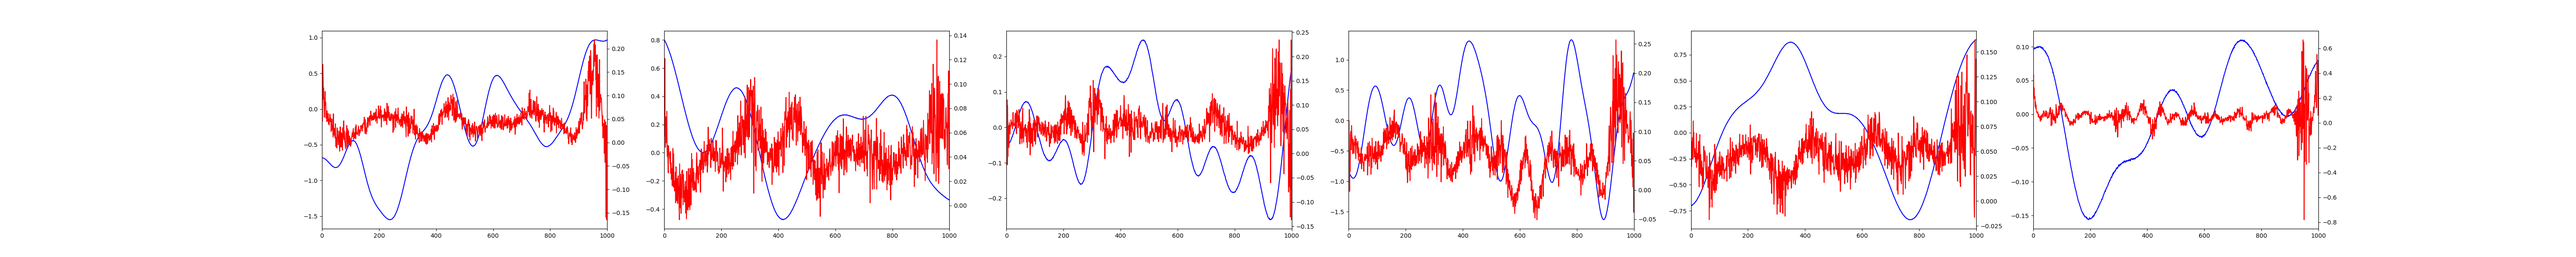
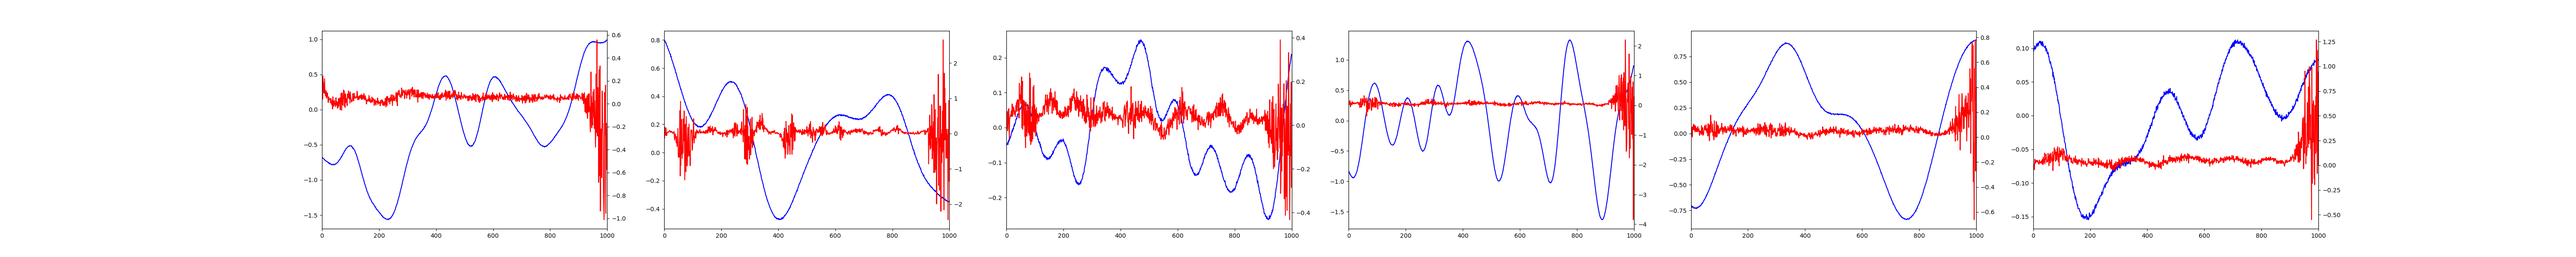
function to bound kernel params

diff --git a/main.py b/main.py
@@ -11,7 +11,6 @@ import sys
 
 from jax.config import config
 config.update("jax_enable_x64", True)
-#config.update("jax_debug_nans", True)
 
 import jax.random as jr
 import jax.numpy as jnp
@@ -37,7 +36,7 @@ def parse():
                         help="dimension of each observed data point")
     parser.add_argument('-T', type=int, default=1000,
                         help="number of latent input locations")
-    parser.add_argument('--num-pseudo', type=int, default=100,
+    parser.add_argument('--num-pseudo', type=int, default=50,
                         help="number of pseudo latent points to use")
     parser.add_argument('-D', type=int, default=1,
                         help="dimension of latent input locations")
@@ -56,11 +55,11 @@ def parse():
                         help="num. of samples from q(s|tau) in elbo")
     parser.add_argument('--num-tau-samples', type=int, default=10,
                         help="num. of samples from q(tau) in elbo")
-    #parser.add_argument('--phi-learning-rate', type=float, default=3e-1,
-    #                    help="learning rate for variational params")
-    parser.add_argument('--theta-learning-rate', type=float, default=3e-3,
+    parser.add_argument('--phi-learning-rate', type=float, default=3e-1,
+                        help="learning rate for variational params")
+    parser.add_argument('--theta-learning-rate', type=float, default=3e-4,
                         help="learning rate for model params")
-    parser.add_argument('--minib-size', type=int, default=16,
+    parser.add_argument('--minib-size', type=int, default=8,
                         help="minibatch size")
     parser.add_argument('--num-epochs', type=int, default=10000,
                         help="number of training epochs")
@@ -69,7 +68,7 @@ def parse():
                         help="seed for initializing data generation")
     parser.add_argument('--est-seed', type=int, default=50,
                         help="seed for initializing learning/inference")
-    parser.add_argument('--test-seed', type=int, default=50,
+    parser.add_argument('--test-seed', type=int, default=99,
                         help="seed for all kinds misc. testing")
     # plotting frequency
     parser.add_argument('--plot-freq', type=int, default=100,

diff --git a/train.py b/train.py
@@ -30,7 +30,7 @@ def train(x, z, s, t, tp_mean_fn, tp_kernel_fn, params, args, key):
     num_epochs = args.num_epochs
     nsamples = (args.num_s_samples, args.num_tau_samples)
     theta_lr = args.theta_learning_rate
-    #phi_lr = args.phi_learning_rate
+    phi_lr = args.phi_learning_rate
     gt_Q, gt_mixer_params, gt_kernel_params, gt_tau = params
 
     # initialize generative model params (theta)
@@ -78,9 +78,9 @@ def train(x, z, s, t, tp_mean_fn, tp_kernel_fn, params, args, key):
     num_full_minibs, remainder = divmod(n_data, minib_size)
     num_minibs = num_full_minibs + bool(remainder)
     theta_optimizer = optax.adam(theta_lr)
-    #phi_optimizer = optax.adam(phi_lr)
+    phi_optimizer = optax.adam(phi_lr)
     theta_opt_state = theta_optimizer.init(theta)
-    phi_opt_states = vmap(theta_optimizer.init)(phi)
+    phi_opt_states = vmap(phi_optimizer.init)(phi)
 
 
     def make_training_step(logpx, kernel_fn, t, nsamples, use_gt_settings,
@@ -95,7 +95,7 @@ def train(x, z, s, t, tp_mean_fn, tp_kernel_fn, params, args, key):
             theta_g, phi_n_g = g
 
             # perform gradient updates
-            theta_opt = optimizers
+            (theta_opt, phi_opt) = optimizers
             theta_updates, theta_opt_state = theta_opt.update(
                 theta_g, theta_opt_state, theta)
 
@@ -113,7 +113,7 @@ def train(x, z, s, t, tp_mean_fn, tp_kernel_fn, params, args, key):
 
             # perform gradient updates
             theta = optax.apply_updates(theta, theta_updates)
-            phi_n_updates, phi_n_opt_states = vmap(theta_opt.update)(
+            phi_n_updates, phi_n_opt_states = vmap(phi_opt.update)(
                 phi_n_g, phi_n_opt_states, phi_n)
             phi_n = vmap(optax.apply_updates)(phi_n, phi_n_updates)
             return nvlb, s, theta, phi_n, theta_opt_state, phi_n_opt_states
@@ -122,7 +122,7 @@ def train(x, z, s, t, tp_mean_fn, tp_kernel_fn, params, args, key):
 
     training_step = make_training_step(nica_logpx, tp_kernel_fn, t,
                                        nsamples, use_gt_settings,
-                                       theta_optimizer)
+                                       (theta_optimizer, phi_optimizer))
 
     # train over minibatches
     train_data = x.copy()

diff --git a/kernels.py b/kernels.py
@@ -19,7 +19,14 @@ def squared_euclid_dist_mat(x):
 def se_kernel_fn(x, y, params):
     sigma, lscale = params
     k = sigma**2 * jnp.exp(-0.5*squared_euclid_dist(x, y) / lscale**2)
-    return k+(x==y).squeeze()*1e-6
+    return k+(x==y).squeeze()*1e-5
+
+
+def bound_se_kernel_params(params, sigma_min=1e-3, ls_min=1, ls_max=900):
+    sigma, lscale = params
+    sigma = jnp.clip(jnp.abs(sigma), a_min=sigma_min)
+    lscale = jnp.clip(jnp.abs(lscale), a_min=ls_min, a_max=ls_max)
+    return (sigma, lscale)
 
 
 def compute_K(x, kernel_fn, params):
@@ -28,7 +35,7 @@ def compute_K(x, kernel_fn, params):
 
 
 def rdm_SE_kernel_params(key, min_lscale=25., max_lscale=100.,
-                         sd_min=0.1, sd_max=1., noise_multip=1e-3):
+                         sd_min=0.1, sd_max=1.):
     """
     Note: x is needed to find reasonable length-scale thats not too smooth
     """
@@ -36,7 +43,6 @@ def rdm_SE_kernel_params(key, min_lscale=25., max_lscale=100.,
                         maxval=max_lscale)
     key, sd_key = jr.split(key)
     sd = jr.uniform(sd_key, minval=sd_min, maxval=sd_max)
-    noise_sd = jnp.array(noise_multip)
     return (sd, lscale)
 
 

diff --git a/inference.py b/inference.py
@@ -11,7 +11,7 @@ from jax.lax import scan
 from jax.random import split
 
 from functools import partial
-from kernels import se_kernel_fn, compute_K
+from kernels import se_kernel_fn, compute_K, bound_se_kernel_params
 from data_generation import sample_tprocess
 from utils import custom_solve, jax_print, comp_K_N, fill_triu, reorder_covmat
 from util import *
@@ -21,6 +21,7 @@ from gaussian import *
 
 def structured_elbo_s(rng, theta, phi_s, logpx, cov_fn, x, t, tau, nsamples):
     theta_x, theta_cov = theta[:2]
+    theta_cov = bound_se_kernel_params(theta_cov)
     What, yhat, tu = phi_s
     N, n_pseudo = yhat.shape
     T = t.shape[0]
